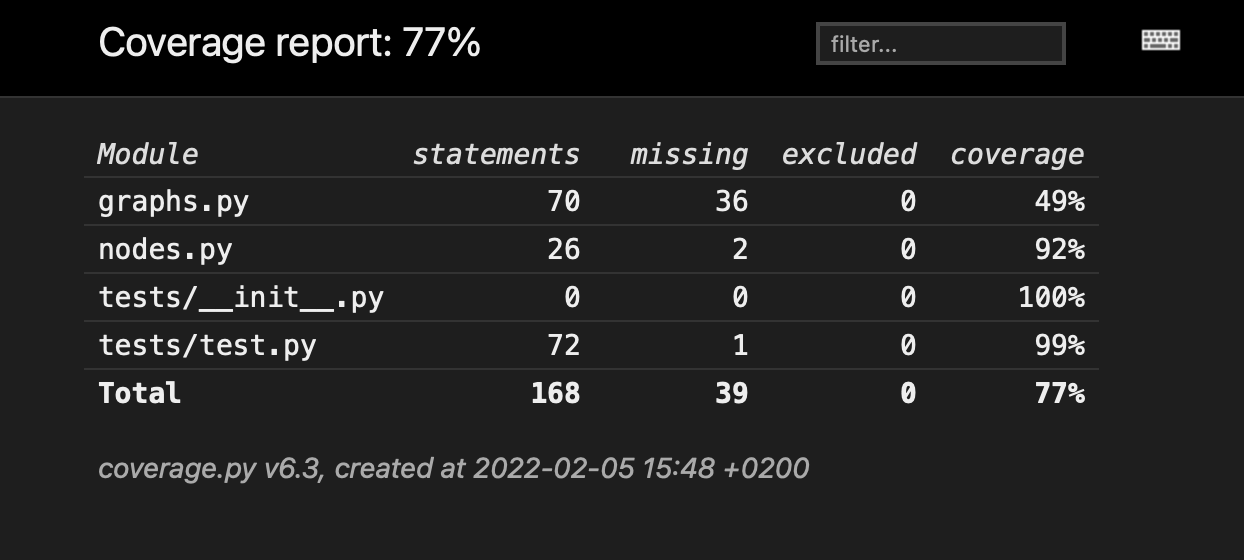
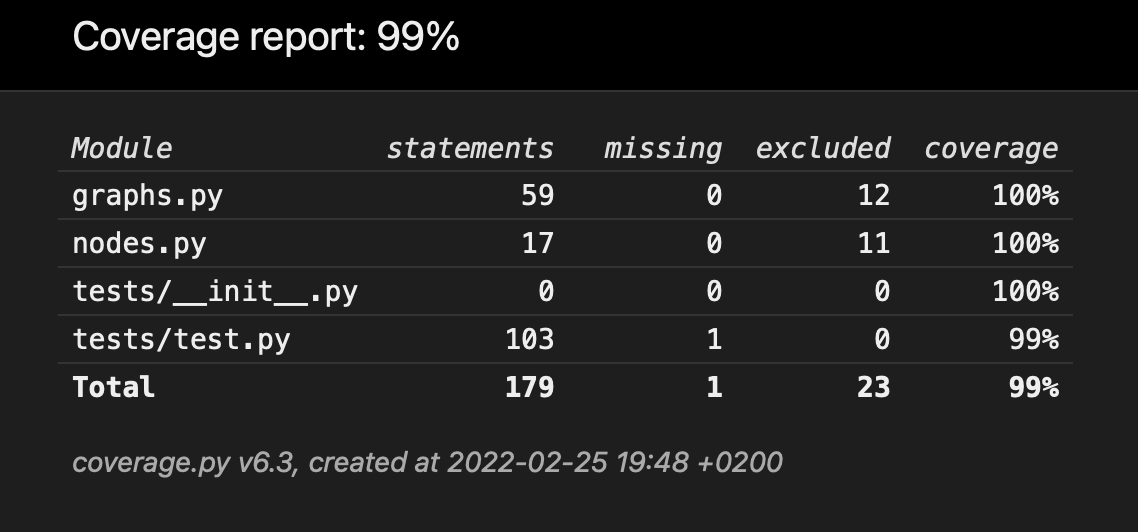
updated testing

diff --git a/src/tests/test.py b/src/tests/test.py
@@ -6,7 +6,7 @@ import graphs as g
 
 class TestMain(unittest.TestCase):
     
-    def setUp(self):
+    def setUp(self): 
         row = 5
         col = 5
         percent = 100
@@ -70,7 +70,49 @@ class TestMain(unittest.TestCase):
         graph[0][0].set_floor(False)
         graph = g.modify_graph(row, col, graph)
         self.assertEqual(graph[0][0].floor, True)
+
+    def test_search_finds_biggest_cave(self):
+        row = 8
+        col = 8
+        percent = 0
+        graph = g.make_graph(row, col, percent)
+
+        #Makes a cave of 8 nodes in the last row
+        for i in range(8):
+            graph[7][i-1].set_floor(True)
+        
+        #Makes a cave of 5 nodes in the first row
+        for i in range(5):
+            graph[0][i-1].set_floor(True)
+        
+        #Search method calls the search and the removes the small caves
+        graph = g.search(row, col, graph)
+        
+        floorCount = 0
+        for r in range(row):
+            for c in range(col):
+                if graph[r][c].floor == True:
+                    floorCount += 1
+        self.assertEqual(floorCount, 8)
     
+    def test_set_floor_changes_value(self):
+        row = 3
+        col = 3
+        percent = 100
+        graph = g.make_graph(row, col, percent)
+        graph[0][0].set_floor(False)
+        self.assertEqual(graph[0][0].floor, False)
+
+    def test_count_neighbours_returns_correct_value(self):
+        row = 3
+        col = 3
+        percent = 100
+        graph = g.make_graph(row, col, percent)
+        graph[0][1].set_floor(False)
+        neighbouringFloor = graph[0][0].count_neighbours()
+        self.assertEqual(neighbouringFloor, 2)
+
+
     def test_addNeighbours_adds_right_amout_o_neighbours(self):
         row = 3
         col = 3

diff --git a/src/nodes.py b/src/nodes.py
@@ -6,7 +6,7 @@ class Node:
     Returns: Node: one node on graph
     """
 
-    def __init__(self, floor: boolean, x_row: int, y_col: int):
+    def __init__(self, floor: boolean, x_row: int, y_col: int): # pragma: no cover
         self.floor = floor
         self.neighbours = []
         self.x_row = x_row
@@ -19,12 +19,12 @@ class Node:
         """
         self.floor = floor
 
-    def get_floor(self):
+    def get_floor(self): # pragma: no cover
         """Returns: boolean: true if floor"""
         return self.floor
 
-    def get_xy(self):
-        """Returns position of the nodein graph
+    def get_xy(self): # pragma: no cover
+        """Returns position of the node in graph
         """
         return self.x_row, self.y_col
 

diff --git a/src/graphs.py b/src/graphs.py
@@ -3,7 +3,7 @@ import random
 import numpy as np
 import nodes as n
 
-def __init__(self, row, col):
+def __init__(self, row, col): # pragma: no cover
     self.row = row
     self.col = col
 
@@ -123,7 +123,7 @@ def delete_small_caves(row, col, graph, largest_cave):
                 graph[current_r][current_c].floor = False
     return graph
 
-def print_graph(row, col, graph):
+def print_graph(row, col, graph): # pragma: no cover
     """Prints the graph, "X" is wall and "  " is floor
 
     Args:

diff --git a/documentation/test document.md b/documentation/test document.md
@@ -1,0 +1,37 @@
+# Test Document
+
+Unittest is used for the testing. Tests are mainly making sure that algorithms work as intented. The GUI doesn't have tests. 
+
+## Coverage report: 
+<img src = >
+
+## What has been tested:
+
+## graphs.py
+
+- make_graph -function makes a graph correctly. I used parameters row = 5, column = 5 and percent = 100. This makes 5x5 graph with only floors.
+
+- make_graph - function makes a correct sized graph. Given parameters were row = 3 and column = 3, so 3x3=9 Nodes were created.
+
+- randomBoolean -function works. Randomnes is hard to test, but I tested it with parameters 0 and 100. Percent = 0 makes a wall and percent = 100 makes a floor.
+
+- sort_graph -method has 3 tests. The tests test the rules of its algorithm. 
+    - First tests that node changes from floor to wall if the node has less than 2 neighbouring walls.
+    - Second one tests that a node changes from floor to wall if it has over 3 neighbouring walls.
+    - Third one tests that a node changes from wall to floor if it has exactly 3 neigbouring walls. 
+
+- search -method finds the biggest cave. First a 8x8 cave sized cave is made that consists of only walls. Then two caves sized 8 and 5 is inserted to the graph. The search method finds the bigger cave and removes the smaller so the cave now has onlu 8 floor nodes.
+
+- Methods delete_small_caves and depth_search are tested in the above test.
+
+- print_graph -method is excluded from the coverage report because it only prints the graph in the consol.
+
+## nodes.py
+
+- set_floor -method is tested by making a graph of only floor and the changing the forst node to a wall.
+
+- get_floor and get_xy are excluded.
+
+- count_neighbours -method is tested with making a graph of only floors. Node in position [0][1] is changed to a wall and so the node [0][0] has 2 floor -neighbours.
+
+- add_neighbour -method is tested with making a graph of only floors. The test then counts neighgours of a corner -node, side -node and a middle -node. The values are 3, 5, and 8.
